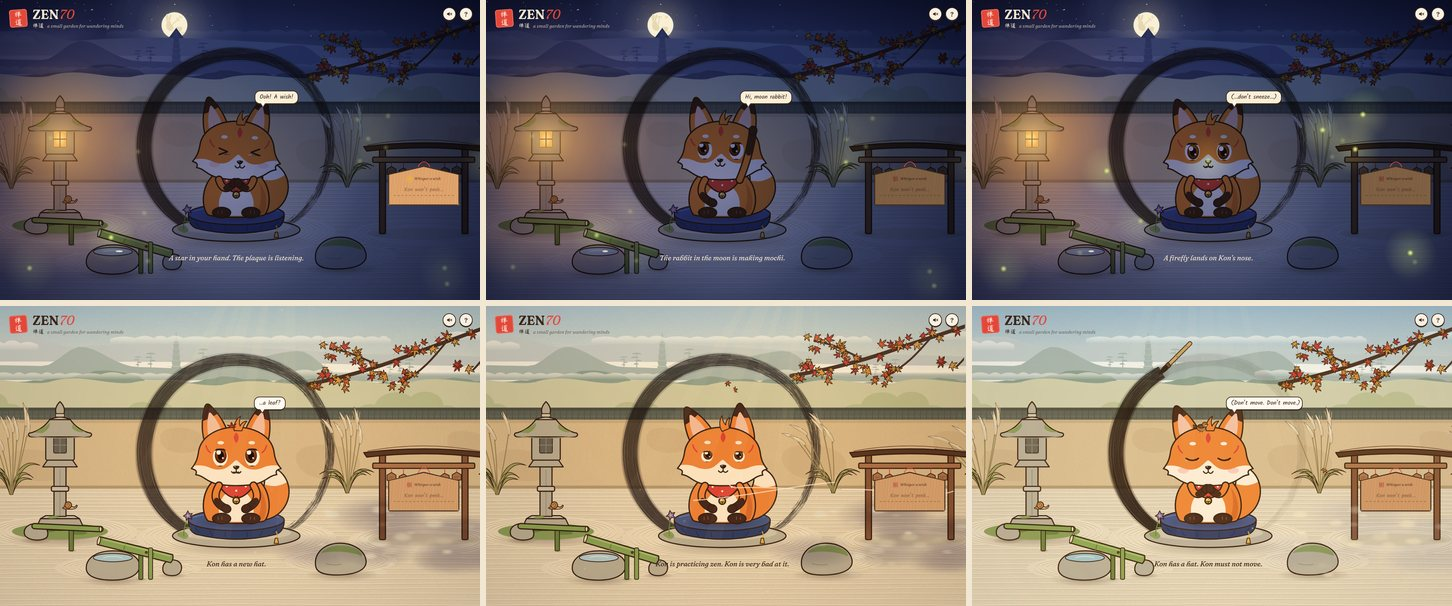
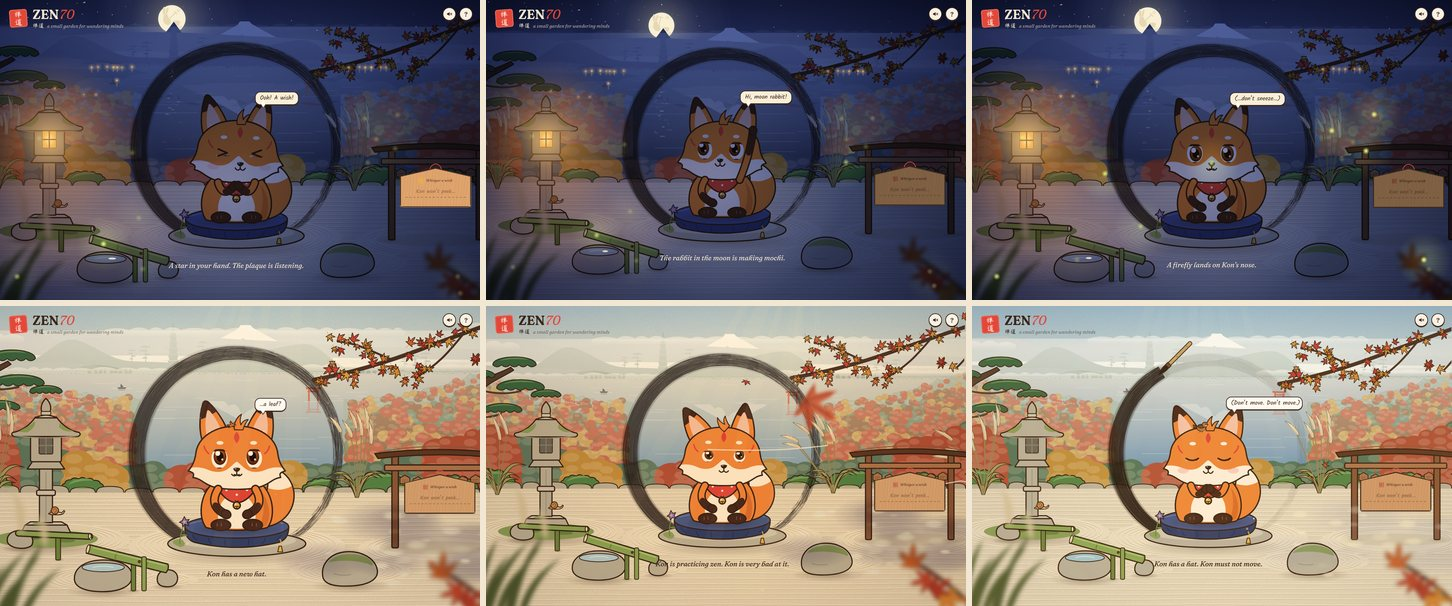
Docs and checks for the new world
README: the garden above the valley, looking around with the mouse, the
arrival, life in the valley, the camera's depths; new pictures (the garden,
dawn to night, small moments); updated frame-rate floor.

Visual demos (24 → 28): dawn's sea of clouds, the arrival shot, the flock,
the leaf past the lens. All 28 render pixel-identical on two runs.

diff --git a/tests/visual_diff.py b/tests/visual_diff.py
@@ -34,6 +34,10 @@ DEMOS = {
     "firefly": "?demo=firefly&hour=22.6&t=0.4",
     "leafhat": "?demo=leafhat&hour=14&t=1.2",
     "night-phone": "?demo=idle&hour=22.6|390x844",
+    "dawn": "?demo=idle&hour=6.4",
+    "arrival": "?demo=intro&hour=7.2&t=0.4",
+    "flock": "?demo=flock&hour=16&t=0.5",
+    "lens-leaf": "?demo=gust&hour=15&lens=1&t=1.1",
 }
 
 

diff --git a/README.md b/README.md
@@ -4,9 +4,11 @@ A small zen garden, and the fox who lives in it. **Kon** is a novice kitsune mon
 
 Kon has a life of its own. It wanders the garden: sniffing the flower, drinking at the basin, bothering the snail, sunbathing on the warm rock, and jumping every time the bamboo clacks. It also secretly watches you. When you notice, it pretends it was doing something else entirely.
 
-The garden keeps your local time. The light changes through the day, the wind comes and goes, and after dark there are stars, a full moon, and fireflies.
+The garden is a terrace high on a mountainside. Past its edge the land falls away to a lake at the foot of autumn hills, with a village on the far shore, a torii standing in the water and a snow-capped peak behind it all. The garden keeps your local time: the light changes through the day, at dawn a sea of clouds fills the valley, the wind comes and goes, and after dark there are stars, a full moon, village lights and fireflies.
 
-![The garden at noon, golden hour, sunset and night](docs/screenshots/times.jpg)
+![Kon's garden above the valley](docs/screenshots/garden.jpg)
+
+![Dawn, golden hour, sunset and night](docs/screenshots/times.jpg)
 
 ## Run it
 
@@ -37,10 +39,16 @@ Fonts come from Google Fonts (Fraunces, Kalam, Ma Shan Zheng). Offline, the page
 ## Things to try
 
 **Kon's life**
-- Do nothing and watch. Kon sits a while, then picks somewhere to go, based on what it hasn't visited lately. It walks there with momentum and hops on and off the cushion and rock. It shrinks as it walks toward the wall and passes behind the lantern. Its paws leave prints in the sand.
+- Do nothing and watch. Kon sits a while, then picks somewhere to go, based on what it hasn't visited lately. It walks there with momentum and hops on and off the cushion and rock. It shrinks as it walks toward the terrace edge and passes behind the lantern. Its paws leave prints in the sand.
 - Shake the maple. When a leaf lands, Kon trots over and pounces on it.
 - **A sparrow drops by** now and then (by day). It perches on the lantern, the wish rack, the rock, the basin rim or the sand, hops about, pecks, and cocks its head. On the sand it's prey: Kon creeps up low and slow, wiggles, and pounces. The sparrow always gets away (sometimes it spots Kon coming). Up out of reach, Kon sits below and chatters at it. Swipe or tap near the bird and it's gone. Hold perfectly still while Kon meditates, and it may land on Kon's head. Kon must not move.
 - At night (light the lantern, or visit after 7 pm) Kon warms its paws at the lantern, and your cursor becomes a firefly.
+
+**The world**
+- **Move the mouse and look around.** Every layer has its own depth: the sky barely moves, the valley a little, the out-of-focus grass at the corners the most. Even when you're still, the view breathes.
+- **Arrive.** The camera starts up in the sky and comes down to the garden.
+- **Watch the valley.** A boat drifts on the lake, birds cross now and then, and after dark the village windows light up (and go out, one by one), lamps glow along the path of torii gates, and the moon lays a glittering path on the water.
+- The camera pushes in on the small moments (a firefly on Kon's nose, a leaf on its head, a wish), and tilts up toward the sky while the sun goes down.
 
 **The sky and the weather**
 - **Light the lantern.** It doesn't flip a switch, it runs the clock: the afternoon turns gold, the sun slides behind the hills through shafts of light, the sky goes orange and violet, and the full moon rises behind the pagoda. Kon turns to watch ("Whoa. Pretty…"). Put the lantern out and the night flies by into morning. Click it again halfway and the clock runs back.
@@ -89,6 +97,7 @@ js/garden/             the garden
   scene.js             framing, camera, parallax, depth sorting, overlays (art.js, props.js)
   sky.js               the clock: a palette per hour, the sun and moon, the lantern's time-lapse
   light.js             the light map over the garden, sun shafts and dust, leaf shade
+  vista.js             beyond the terrace: the peak's reflection, the lake and village, autumn hills, the torii path, the forest below, the sea of clouds, the out-of-focus corners, the boat and the birds
   wind.js · night.js   gusts and pampas grass; shooting stars, the moon rabbit, a firefly
   birds.js             the sparrow: perches, flight, hops and pecks, what scares it
   rake.js · zen.js · enso.js                      raking and paw prints, the live ensō, the brush
@@ -97,11 +106,11 @@ js/main.js             wiring and the loop · util.js, math.js, clock.js, memory
 
 The brain, rig and scene are each one class whose methods are grouped into a few files by responsibility (`mixin(Brain, Life, Social, Stillness, Play, Visitors)`). A state's code lives next to related states, not in one long file.
 
-- **A ground with perspective.** Every point on the ground has a depth scale. Kon is 1.15× at the cushion, about 0.9× near the wall, and about 1.5× right in front of you. Moving toward or away from the viewer covers fewer screen units than moving sideways. The scenery is sorted by where it meets the ground, and Kon is re-inserted among it as it walks, so it passes behind the lantern and in front of the rock.
+- **A ground with perspective.** Every point on the ground has a depth scale. Kon is 1.15× at the cushion, about 0.9× near the terrace edge, and about 1.5× right in front of you. Moving toward or away from the viewer covers fewer screen units than moving sideways. The scenery is sorted by where it meets the ground, and Kon is re-inserted among it as it walks, so it passes behind the lantern and in front of the rock.
 - **A body with momentum.** The brain only says where it wants to be. The mover accelerates with limited force, slows down on arrival, and walks around obstacles (a tiny planner: detours around ellipses, replanning when stuck). It hops onto the cushion and rock and flies ballistic arcs for pounces. Footfalls drive paw prints in the sand; landings squash the rig.
 - **A rig that walks.** Kon's upper body rises on short legs when it stands. The feet step in a walk cycle (bigger bounce when trotting), the arms swing, the body leans into the turn, the belly and bib shift to suggest a three-quarter view, and the tail swings over to trail behind.
 - **Light, painted per hour.** A palette for each key hour (dawn, morning, noon, afternoon, golden hour, sunset, dusk, night) is blended for the current minute. The far scenery gets its colors from it. The garden itself is lit by a small light map: ambient color, brighter toward the sun or moon, the lantern's warm pool, fireflies, leaf shade, a vignette. From golden hour to dawn it is multiplied over the garden; in daylight it is a plain see-through overlay, because blending a whole screen is costly without a GPU. The far scenery's paint is divided by the light that will fall on it, so the sky ends up exactly the color the palette asks for.
-- **A camera.** On wide screens it pans gently with Kon. On phones it follows Kon around the garden. Hills, trees and the wall move at different rates, which gives the parallax depth.
+- **A camera with depth.** Every layer has a depth, from the sky (0.22) through the valley (0.4) to the ground (1) and the out-of-focus corners (1.5). The pan that follows Kon, the mouse's parallax, a slow breathing drift and the tilt all scale with it. On wide screens the camera pans gently with Kon; on phones it follows Kon around the garden. Push-ins scale the whole stage around a point. All of it is composited transforms, snapped to whole pixels and only written when they change, and every screen ↔ world conversion goes through the camera, so the pointer, the plaque, the captions and Kon's bubble stay pinned while it moves.
 - **Different delays for eyes, head and body.** Each rig channel is a damped spring with its own frequency: eyes about 9 Hz, head about 3 Hz, body about 1.6 Hz. Ears, the tuft, the bib bell and the tail take their motion from those.
 - **Two layers of behavior.** A *life* layer chooses activities by novelty, whim and distance whenever nobody's around. A *social* layer reacts to you (watch, peek, pretend, startle, stalk, read, judge) and always wins. The state machine: `IDLE (life) → WATCH → NOTICED → PRETENDING → RESUMING`, plus `STARTLED`, `POUNCE`, `JUDGE`, `ZAZEN → SATORI`, `DROWSY → SLEEPING → WAKING`, `GOTCHA`, `DIZZY`, `PETTED`, `BOOPED`, `ADMIRE`.
 
@@ -119,7 +128,7 @@ The brain, rig and scene are each one class whose methods are grouped into a few
   - a 60-step random session with NaN checks.
 
   **58/58 pass.**
-- **`/?demo=<name>`**: runs a scripted input sequence through the real pipeline on a virtual clock and freezes on one moment. A drawn cursor shows where the "mouse" is. Examples: `go&to=basin&t=2.4`, `at&to=rock`, `go&x=300&y=760&t=14` (behind the lantern), `stalk2`, `pounce`, `typing`, `judge&t=5.2`, `zazen&t=0.6`, `satori`, `tempt`, `gotcha`, `doodle&visits=3&away=5`, `night`, `sparrow&perch=lantern&t=7`, `sparrow-hunt&phase=creep` (or `wiggle`, `air`, `land`), `sparrow-head`, `idle&hour=17.5` (any hour), `night&t=4.2` (mid time-lapse), `gust`, `meteor` (`&caught=1`), `moon`, `firefly`, `leafhat`, and the older `peek`, `noticed`, `pretend&act=whistle`, `resume`, `startle`, `cover`, `pout`, `bleh`, `sleep`, `dizzy`, `pet`, `boop`, `admire`.
+- **`/?demo=<name>`**: runs a scripted input sequence through the real pipeline on a virtual clock and freezes on one moment. A drawn cursor shows where the "mouse" is. Examples: `go&to=basin&t=2.4`, `at&to=rock`, `go&x=300&y=760&t=14` (behind the lantern), `stalk2`, `pounce`, `typing`, `judge&t=5.2`, `zazen&t=0.6`, `satori`, `tempt`, `gotcha`, `doodle&visits=3&away=5`, `night`, `sparrow&perch=lantern&t=7`, `sparrow-hunt&phase=creep` (or `wiggle`, `air`, `land`), `sparrow-head`, `idle&hour=17.5` (any hour), `night&t=4.2` (mid time-lapse), `gust` (`&lens=1`), `meteor` (`&caught=1`), `moon`, `firefly`, `leafhat`, `intro&t=0.4` (the arrival), `flock`, and the older `peek`, `noticed`, `pretend&act=whistle`, `resume`, `startle`, `cover`, `pout`, `bleh`, `sleep`, `dizzy`, `pet`, `boop`, `admire`.
 - **`PORT=8070 tests/screenshots.sh`** captures 41 of them at desktop (1440×900) and phone (390×844) size with headless Firefox into `docs/screenshots/`.
 - **Performance**: script work is about 0.3–0.5 ms per frame, measured in the virtual-clock mode. That excludes the browser's own paint time. Static scenery sits on its own layers, and the sand canvas pans with a CSS transform instead of being redrawn.
 
@@ -131,7 +140,7 @@ The brain, rig and scene are each one class whose methods are grouped into a few
 
 ## Known limitations
 
-- **Not watched by a person on a real display.** Motion was checked in real time in headless Firefox (software rendering, real mouse/keyboard/touch input through WebDriver), frame by frame on the virtual clock, and with film strips and screenshots. Frame rates measured there are a floor, not what a GPU-accelerated browser will do: about 50 fps idle by day and at night, and about 44 at golden hour, when the light map has to be multiplied over the whole screen. Walking speed, spring stiffness and act timing may still want a tuning pass once you've played with it.
+- **Not watched by a person on a real display.** Motion was checked in real time in headless Firefox (software rendering, real mouse/keyboard/touch input through WebDriver), frame by frame on the virtual clock, and with film strips and screenshots. Frame rates measured there are a floor, not what a GPU-accelerated browser will do: about 54 fps by day, about 35 at golden hour and 31 at night, when the light map is multiplied over a dozen full-screen layers (a GPU does that in its sleep; software compositing doesn't). Walking speed, spring stiffness and act timing may still want a tuning pass once you've played with it.
 - **Not tested on real phones.** Touch input, the following camera and the on-screen keyboard layout were checked only at emulated sizes (390×844) with synthesized touch events.
 - **No back view.** Kon always shows its face. When walking straight away from you it turns to a three-quarter view instead of showing its back.
 - **The wish plaque is an HTML form on top of the garden,** so it always draws in front of Kon. Kon's reading spot sits just beside it to avoid overlapping.
@@ -145,7 +154,7 @@ The brain, rig and scene are each one class whose methods are grouped into a few
 ```bash
 python3 tests/run.py [-v] [-k sparrow]     # 58 behavior tests + a boot check, headless Firefox
 python3 tests/live/scenarios.py            # live: 13 scenarios, real mouse/keyboard/touch in real time, desktop + phone
-python3 tests/visual_diff.py capture DIR   # pixel baseline of 24 scripted demos…
+python3 tests/visual_diff.py capture DIR   # pixel baseline of 28 scripted demos…
 python3 tests/visual_diff.py compare DIR   # …and the diff after a change
 python3 tests/live/observe.py --seconds 60 # watch the garden untouched: states, frame times, errors
 python3 tests/live/perf.py --walk          # frame times with layers switched off one at a time
